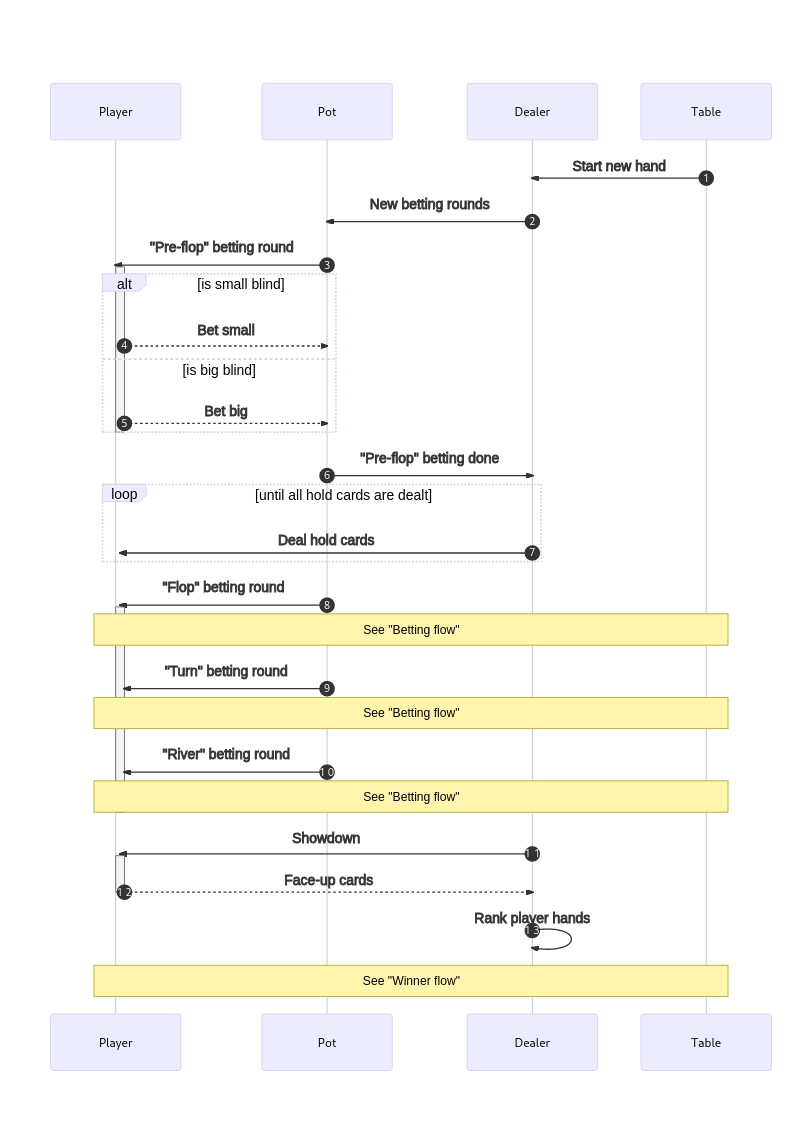
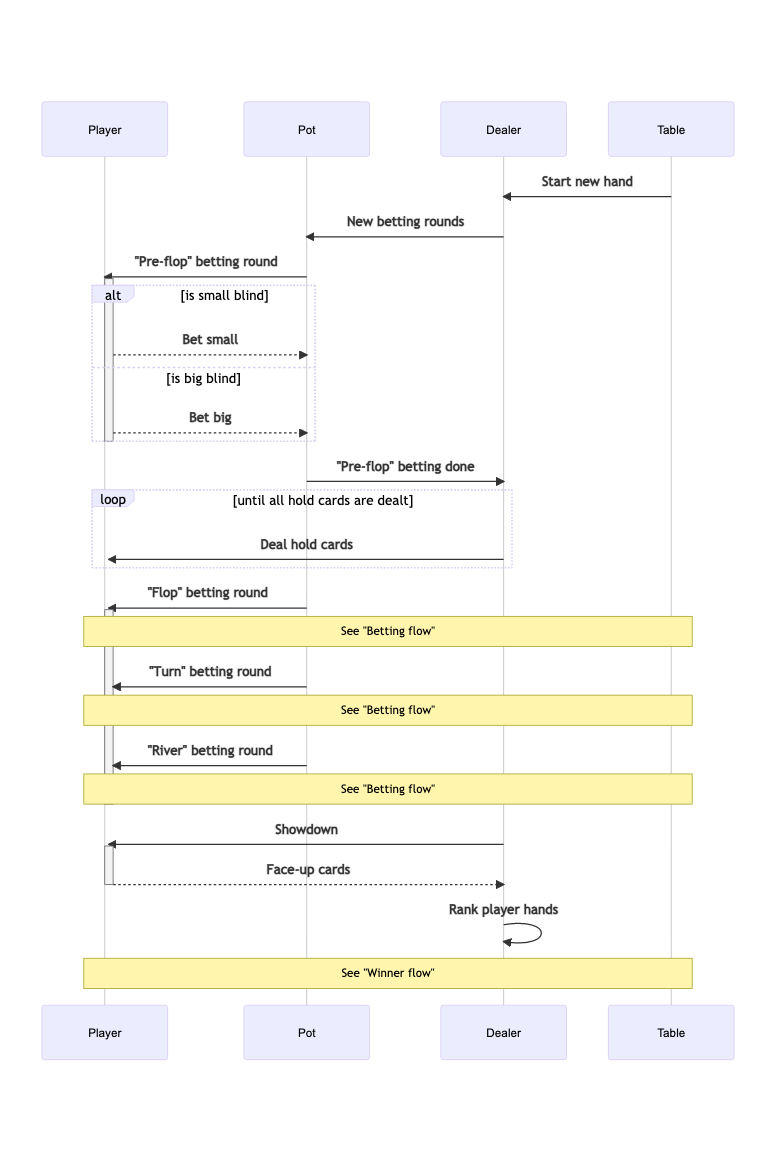
Generate images from mermaid diagrams

diff --git a/docs/FLOWS.md b/docs/FLOWS.md
@@ -8,20 +8,20 @@
 
 ## Player flow
 
-![Player flow](./assets/player_flow.png)
+![Player flow](./assets/player_flow.svg)
 
 ## Dealer flow
 
-![Dealer flow](./assets/dealer_flow.png)
+![Dealer flow](./assets/dealer_flow.svg)
 
 ## Betting flow
 
-![Betting flow](./assets/betting_flow.png)
+![Betting flow](./assets/betting_flow.svg)
 
 ## Player folds
 
-![Player folds](./assets/player_folds.png)
+![Player folds](./assets/player_folds.svg)
 
 ## Winner flow
 
-![Winner flow](./assets/winner_flow.png)
+![Winner flow](./assets/winner_flow.svg)
